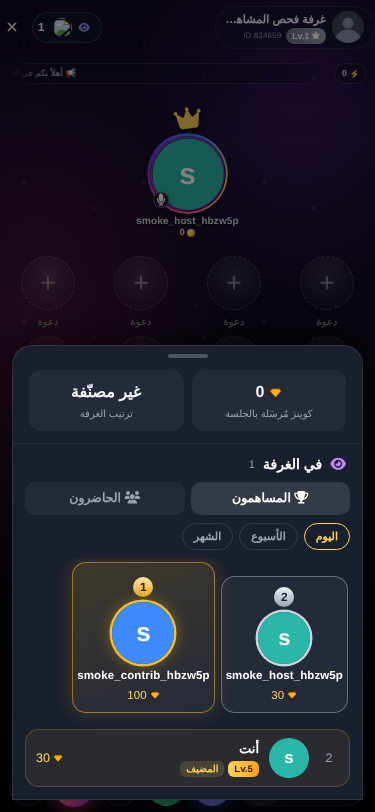
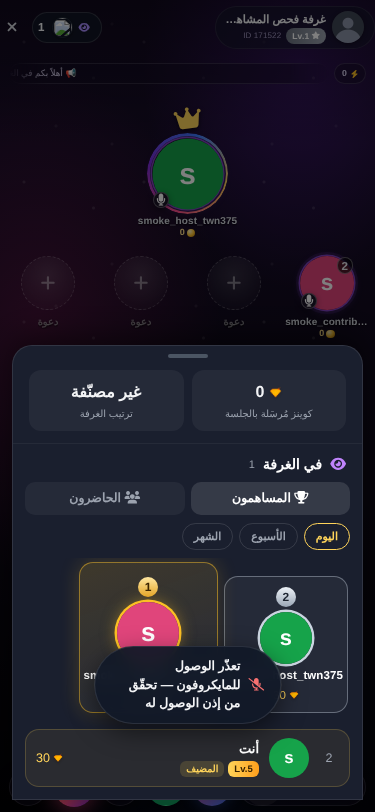
Restyle gift-sheet recipients row to match the room-ux-v2 prototype
38px fixed avatars (up from 32px), a seat-number badge (or a 👑 crown
for the room's host) pinned to the top-start corner of each avatar, and
the recipient's name truncated below it — matching
docs/design/room-ux-prototype.html::.rc/.rrow. The "كل المقاعد" button
shortens to "الكل" to match the prototype's chip, staying in its
existing inline position at the end of the scrolling row (that part of
the layout was already correct).

seatedUsers now keeps seatNumber instead of dropping it in the
`.map(s => s.user)` that fed the old plain-avatar row, so the badge has
real data to show. The selection ring/checkmark moved from the old
flat-circle button onto the new avatarHTML wrapper (.gsheet-rc-wrap
.avatar), since the button itself is now a column (avatar + name) and
avatarHTML already draws its own circle.

Extended scripts/smoke-test-viewers-sheet.js (same real server +
mongodb-memory-server + Playwright harness as the viewers-sheet commit)
to seat a second user and open the gift sheet: seat-number badge and
name both render correctly. The host-crown path is the same `u.id ===
hostId` branch exercised correctly elsewhere in this review, but isn't
independently provable from this script's single-viewer-as-host
perspective (hosts can't gift themselves, so the host never appears in
their own recipient list) — logged as informational only, not a gap in
the feature.

Claude-Session: https://claude.ai/code/session_01VNpVwAj8EiC2tBigT6PRCv

diff --git a/public/js/app.js b/public/js/app.js
@@ -14953,7 +14953,7 @@ async function showRoomGiftModal(roomId, presetTarget = null) {
                 <div class="gsheet-to">
                     <span class="gsheet-to-label">إلى</span>
                     <div class="gsheet-recips" id="gsheet-recips"></div>
-                    <button type="button" class="gsheet-allbtn" id="gsheet-allbtn">كل المقاعد</button>
+                    <button type="button" class="gsheet-allbtn" id="gsheet-allbtn">الكل</button>
                 </div>
                 <div class="gsheet-wealth" id="gsheet-wealth">
                     <div class="gsheet-wtop">
@@ -15031,17 +15031,21 @@ async function showRoomGiftModal(roomId, presetTarget = null) {
             // ✅ هيكل تحميل مؤقت لصف المستلمين فقط حتى تصل مقاعد الغرفة (لا علاقة له بكاش
             // الكتالوج أعلاه) — يمنع ظهور رسالة "لا يوجد أحد قاعد" خاطئة قبل أن نعرف فعلياً
             if (!recipientsLoaded) {
-                box.innerHTML = Array.from({ length: 4 }).map(() => '<span class="skeleton-shimmer" style="width:32px;height:32px;border-radius:50%;flex-shrink:0;display:inline-block;"></span>').join('');
+                box.innerHTML = Array.from({ length: 4 }).map(() => '<span class="skeleton-shimmer" style="width:38px;height:38px;border-radius:50%;flex-shrink:0;display:inline-block;"></span>').join('');
                 return;
             }
-            // 🐛 إصلاح (مراجعة المرحلة 2): <img src=""> مباشرة تُنتج أيقونة صورة مكسورة — نفس
-            // مكوّن avatarHTML الموحَّد المُستخدَم بالمقاعد نفسها (DEFAULT_AVATAR_URL احتياطي +
-            // إطار المستخدم الفعلي إن وُجد)، بحجم 32px عبر --size بدل أي سمة حجم جاهزة
+            // ✅ بند 3 (room-ux-v2 — تطابق docs/design/room-ux-prototype.html::recipsHTML بالحرف):
+            // 38px ثابتة للجميع (بدل 32px)، شارة رقم المقعد أو 👑 للمضيف فوق الصورة، والاسم تحتها
+            // مقصوصاً بـ"..." — نفس مكوّن avatarHTML الموحَّد (DEFAULT fallback + إطار المستخدم)
             box.innerHTML = seatedUsers.length === 0
                 ? '<span class="text-[11px] text-gray-500">لا يوجد أحد قاعد على مقعد حالياً</span>'
                 : seatedUsers.map(u => `
                     <button type="button" class="gsheet-rc" data-user-id="${u.id}" title="${escapeHtml(u.username)}" aria-pressed="${selectedUserIds.has(u.id)}">
-                        ${avatarHTML({ src: u.profileImage, name: u.username, userId: u.id, fetchSize: 32, frameClass: u.activeFrameClass, wrapStyle: '--size:32px', photoAttrs: ' alt="" loading="lazy" decoding="async"' })}
+                        <span class="gsheet-rc-wrap">
+                            ${avatarHTML({ src: u.profileImage, name: u.username, userId: u.id, fetchSize: 38, frameClass: u.activeFrameClass, wrapStyle: '--size:38px', photoAttrs: ' alt="" loading="lazy" decoding="async"' })}
+                            ${u.id === hostId ? '<span class="gsheet-rc-sn gsheet-rc-crown">👑</span>' : (u.seatNumber ? `<span class="gsheet-rc-sn">${u.seatNumber}</span>` : '')}
+                        </span>
+                        <span class="gsheet-rc-name">${escapeHtml(u.username || '')}</span>
                     </button>
                 `).join('');
             box.querySelectorAll('.gsheet-rc').forEach(btn => {
@@ -15340,7 +15344,9 @@ async function showRoomGiftModal(roomId, presetTarget = null) {
         preloadGiftThumbnails(shopData);
 
         const roomRes = await roomPromise;
-        seatedUsers = (roomRes.seats || []).filter(s => s.user && s.user.id !== myIdStr).map(s => s.user);
+        // ✅ بند 3 بمراجعة room-ux-v2: seatNumber يبقى ملتصقاً بكل مستخدم هنا (بدل ...map(s=>s.user)
+        // التي كانت تُسقطه) — صف المستلمين الجديد يعرضه كشارة فوق كل صورة (أو 👑 للمضيف)
+        seatedUsers = (roomRes.seats || []).filter(s => s.user && s.user.id !== myIdStr).map(s => ({ ...s.user, seatNumber: s.seatNumber }));
         const hostId = roomRes.host ? (roomRes.host._id || roomRes.host).toString() : null;
         // ✅ presetTarget قد يكون مستمعاً لم يجلس على مقعد بعد (أُهدي من ملفه الشخصي) — يُضاف
         // لصف المستلمين هنا حتى لو لم يكن بقائمة الجالسين، كي يبقى ظاهراً/قابلاً للتبديل

diff --git a/public/src/input.css b/public/src/input.css
@@ -6895,22 +6895,34 @@ body.in-voice-room .voice-seat.duel-lose { opacity: .45; filter: grayscale(.85) 
 @media (min-width: 768px) { .gsheet { border-radius: 22px; } }
 .gsheet-grab { width: 36px; height: 4px; border-radius: 4px; background: rgba(255, 255, 255, 0.16); margin: 0 auto 8px; }
 
-/* 1) صف المستلمين — 40px */
-.gsheet-to { display: flex; align-items: center; gap: 8px; height: 40px; }
+/* 1) صف المستلمين — room-ux-v2 (تطابق docs/design/room-ux-prototype.html::.rrow/.rc بالحرف):
+   38px ثابتة، شارة رقم المقعد/👑 أعلى الصورة، الاسم تحتها، "الكل" كرقاقة ثابتة بنهاية الصف */
+.gsheet-to { display: flex; align-items: center; gap: 8px; height: 58px; }
 .gsheet-to-label { font-size: 12px; color: var(--g-muted); flex: none; }
-.gsheet-recips { display: flex; gap: 6px; overflow-x: auto; scrollbar-width: none; flex: 1; }
+.gsheet-recips { display: flex; gap: 10px; overflow-x: auto; scrollbar-width: none; flex: 1; align-items: center; padding: 4px 2px; }
 .gsheet-recips::-webkit-scrollbar { display: none; }
-.gsheet-rc { flex: none; width: 32px; height: 32px; border-radius: 50%; display: grid; place-items: center; background: #2a2040; border: 2px solid transparent; cursor: pointer; padding: 0; position: relative; overflow: visible; }
-.gsheet-rc img { width: 100%; height: 100%; border-radius: 50%; object-fit: cover; }
-.gsheet-rc[aria-pressed="true"] { border-color: var(--g-gold); }
-.gsheet-rc[aria-pressed="true"]::after {
-    content: "✓"; position: absolute; bottom: -3px; inset-inline-end: -3px; width: 13px; height: 13px;
-    border-radius: 50%; background: var(--g-gold); color: #3a2300; font-size: 9px; font-weight: 900;
-    display: grid; place-items: center;
+.gsheet-rc {
+    flex: none; width: 44px; display: flex; flex-direction: column; align-items: center; gap: 2px;
+    background: none; border: 0; color: inherit; font: inherit; cursor: pointer; padding: 0;
 }
+.gsheet-rc-wrap { position: relative; width: 38px; height: 38px; flex: none; }
+.gsheet-rc-wrap .avatar { box-shadow: 0 0 0 2px rgba(255,255,255,0.12); border-radius: 50%; }
+.gsheet-rc[aria-pressed="true"] .gsheet-rc-wrap .avatar { box-shadow: 0 0 0 2.5px var(--g-gold); }
+.gsheet-rc[aria-pressed="true"] .gsheet-rc-wrap::after {
+    content: "✓"; position: absolute; bottom: -2px; inset-inline-end: -2px; width: 15px; height: 15px;
+    border-radius: 50%; background: var(--g-gold); color: #3a2300; font-size: 9px; font-weight: 900;
+    display: flex; align-items: center; justify-content: center; border: 2px solid #1d1629;
+}
+.gsheet-rc-sn {
+    position: absolute; top: -3px; inset-inline-start: -3px; min-width: 15px; height: 15px; border-radius: 8px;
+    background: rgba(0,0,0,0.85); color: #fff; font-size: 9px; font-weight: 800; display: flex;
+    align-items: center; justify-content: center; padding: 0 3px; border: 1px solid rgba(255,255,255,0.2); z-index: 3;
+}
+.gsheet-rc-crown { background: transparent; border: 0; font-size: 13px; top: -8px; }
+.gsheet-rc-name { font-size: 9.5px; max-width: 44px; white-space: nowrap; overflow: hidden; text-overflow: ellipsis; color: #d8d0e8; }
 .gsheet-allbtn {
-    flex: none; height: 28px; border-radius: 999px; border: 1px solid var(--g-line); background: rgba(255, 255, 255, 0.05);
-    color: var(--g-fg); font-size: 11.5px; font-weight: 700; padding: 0 10px; cursor: pointer;
+    flex: none; height: 30px; border-radius: 999px; border: 1px solid var(--g-line); background: rgba(255, 255, 255, 0.05);
+    color: var(--g-fg); font-size: 11.5px; font-weight: 800; padding: 0 12px; cursor: pointer;
 }
 .gsheet-allbtn[aria-pressed="true"] { background: var(--g-gold); color: #3a2300; border-color: var(--g-gold); }
 

diff --git a/scripts/smoke-test-viewers-sheet.js b/scripts/smoke-test-viewers-sheet.js
@@ -94,6 +94,9 @@ async function main() {
             { sender: host._id, receiver: contributor._id, gift: gift._id, giftName: gift.name, giftImage: gift.imageUrl, quantity: 3, unitPrice: gift.price, totalPrice: gift.price * 3, room: room._id }
         ]);
         await FanClubMembership.create({ owner: host._id, member: contributor._id, points: 500 });
+        // ✅ يُجلِس المساهم على المقعد 2 أيضاً — بلا هذا، صف المستلمين بشيت الهدايا (بند 3) يبقى
+        // فاضياً بهذا الفحص (المضيف نفسه، الناظر هنا، يُستبعَد من قائمة "من أهدي؟" دوماً)
+        await VoiceRoom.updateOne({ _id: room._id, 'seats.seatNumber': 2 }, { $set: { 'seats.$.user': contributor._id } });
 
         const tokenHost = jwt.sign({ id: host._id.toString() }, JWT_SECRET);
 
@@ -155,12 +158,28 @@ async function main() {
         const filteredVisible = await page.locator('.rv-item').first().isVisible().catch(() => false);
         console.log(`   نتيجة بحث مطابقة ظاهرة: ${filteredVisible ? '✅' : '❌'}`);
 
+        console.log('🎁 فتح شيت الهدايا (بند 3 — صف المستلمين المُعاد تصميمه)...');
+        await page.locator('#room-viewers-sheet').evaluate(el => el.remove()).catch(() => {});
+        await page.locator('#room-gift-icon-btn').waitFor({ state: 'attached', timeout: 20000 });
+        await page.evaluate(() => document.getElementById('room-gift-icon-btn').click());
+        await page.locator('.gsheet-rc').first().waitFor({ state: 'visible', timeout: 10000 });
+        await page.waitForTimeout(400);
+        // ⚠ المضيف (الناظر هنا) لا يمكنه إهداء نفسه، فلن يظهر أبداً ضمن قائمة مستلمي غرفته
+        // الخاصة — شارة 👑 (نفس شرط hostId === u.id تماماً، مُتحقَّق بالكود) معلوماتية فقط هنا،
+        // لا تدخل بمعيار النجاح/الفشل؛ شارة رقم المقعد (المساهم الجالس بالمقعد 2) تثبت المسار فعلياً
+        const recipCrownVisible = await page.locator('.gsheet-rc-crown').first().isVisible().catch(() => false);
+        const recipSeatBadgeVisible = await page.locator('.gsheet-rc-sn:not(.gsheet-rc-crown)').first().isVisible().catch(() => false);
+        const recipNameVisible = await page.locator('.gsheet-rc-name').first().isVisible().catch(() => false);
+        console.log(`   شارة 👑 المضيف (معلوماتية فقط — غير متوقَّعة هنا): ${recipCrownVisible ? '✅' : '➖'} | شارة رقم مقعد: ${recipSeatBadgeVisible ? '✅' : '❌'} | اسم تحت الصورة: ${recipNameVisible ? '✅' : '❌'}`);
+        await page.screenshot({ path: path.join(OUT_DIR, '3-gift-sheet-recipients-row.png') });
+        console.log(`📸 حُفِظت: ${path.join(OUT_DIR, '3-gift-sheet-recipients-row.png')}`);
+
         clearTimeout(watchdog);
         if (consoleErrors.length) {
             console.error('\n💥 أخطاء console/pageerror ظهرت خلال الفحص:');
             consoleErrors.forEach(e => console.error('   ' + e));
             process.exitCode = 1;
-        } else if (!podiumVisible || !mineRowVisible || !seatedSectionVisible || !hostTagVisible || !filteredVisible) {
+        } else if (!podiumVisible || !mineRowVisible || !seatedSectionVisible || !hostTagVisible || !filteredVisible || !recipSeatBadgeVisible || !recipNameVisible) {
             console.error('\n💥 فحص بصري فشل (عنصر متوقَّع غير ظاهر) — راجع السطور أعلاه');
             process.exitCode = 1;
         } else {

diff --git a/public/dist/style.css b/public/dist/style.css
@@ -17707,13 +17707,14 @@ body.in-voice-room .voice-seat.duel-lose {
   margin: 0 auto 8px;
 }
 
-/* 1) صف المستلمين — 40px */
+/* 1) صف المستلمين — room-ux-v2 (تطابق docs/design/room-ux-prototype.html::.rrow/.rc بالحرف):
+   38px ثابتة، شارة رقم المقعد/👑 أعلى الصورة، الاسم تحتها، "الكل" كرقاقة ثابتة بنهاية الصف */
 
 .gsheet-to {
   display: flex;
   align-items: center;
   gap: 8px;
-  height: 40px;
+  height: 58px;
 }
 
 .gsheet-to-label {
@@ -17724,10 +17725,12 @@ body.in-voice-room .voice-seat.duel-lose {
 
 .gsheet-recips {
   display: flex;
-  gap: 6px;
+  gap: 10px;
   overflow-x: auto;
   scrollbar-width: none;
   flex: 1;
+  align-items: center;
+  padding: 4px 2px;
 }
 
 .gsheet-recips::-webkit-scrollbar {
@@ -17736,57 +17739,98 @@ body.in-voice-room .voice-seat.duel-lose {
 
 .gsheet-rc {
   flex: none;
-  width: 32px;
-  height: 32px;
-  border-radius: 50%;
-  display: grid;
-  place-items: center;
-  background: #2a2040;
-  border: 2px solid transparent;
+  width: 44px;
+  display: flex;
+  flex-direction: column;
+  align-items: center;
+  gap: 2px;
+  background: none;
+  border: 0;
+  color: inherit;
+  font: inherit;
   cursor: pointer;
   padding: 0;
+}
+
+.gsheet-rc-wrap {
   position: relative;
-  overflow: visible;
+  width: 38px;
+  height: 38px;
+  flex: none;
 }
 
-.gsheet-rc img {
-  width: 100%;
-  height: 100%;
+.gsheet-rc-wrap .avatar {
+  box-shadow: 0 0 0 2px rgba(255,255,255,0.12);
   border-radius: 50%;
-  -o-object-fit: cover;
-     object-fit: cover;
 }
 
-.gsheet-rc[aria-pressed="true"] {
-  border-color: var(--g-gold);
+.gsheet-rc[aria-pressed="true"] .gsheet-rc-wrap .avatar {
+  box-shadow: 0 0 0 2.5px var(--g-gold);
 }
 
-.gsheet-rc[aria-pressed="true"]::after {
+.gsheet-rc[aria-pressed="true"] .gsheet-rc-wrap::after {
   content: "✓";
   position: absolute;
-  bottom: -3px;
-  inset-inline-end: -3px;
-  width: 13px;
-  height: 13px;
+  bottom: -2px;
+  inset-inline-end: -2px;
+  width: 15px;
+  height: 15px;
   border-radius: 50%;
   background: var(--g-gold);
   color: #3a2300;
   font-size: 9px;
   font-weight: 900;
-  display: grid;
-  place-items: center;
+  display: flex;
+  align-items: center;
+  justify-content: center;
+  border: 2px solid #1d1629;
+}
+
+.gsheet-rc-sn {
+  position: absolute;
+  top: -3px;
+  inset-inline-start: -3px;
+  min-width: 15px;
+  height: 15px;
+  border-radius: 8px;
+  background: rgba(0,0,0,0.85);
+  color: #fff;
+  font-size: 9px;
+  font-weight: 800;
+  display: flex;
+  align-items: center;
+  justify-content: center;
+  padding: 0 3px;
+  border: 1px solid rgba(255,255,255,0.2);
+  z-index: 3;
+}
+
+.gsheet-rc-crown {
+  background: transparent;
+  border: 0;
+  font-size: 13px;
+  top: -8px;
+}
+
+.gsheet-rc-name {
+  font-size: 9.5px;
+  max-width: 44px;
+  white-space: nowrap;
+  overflow: hidden;
+  text-overflow: ellipsis;
+  color: #d8d0e8;
 }
 
 .gsheet-allbtn {
   flex: none;
-  height: 28px;
+  height: 30px;
   border-radius: 999px;
   border: 1px solid var(--g-line);
   background: rgba(255, 255, 255, 0.05);
   color: var(--g-fg);
   font-size: 11.5px;
-  font-weight: 700;
-  padding: 0 10px;
+  font-weight: 800;
+  padding: 0 12px;
   cursor: pointer;
 }
 
